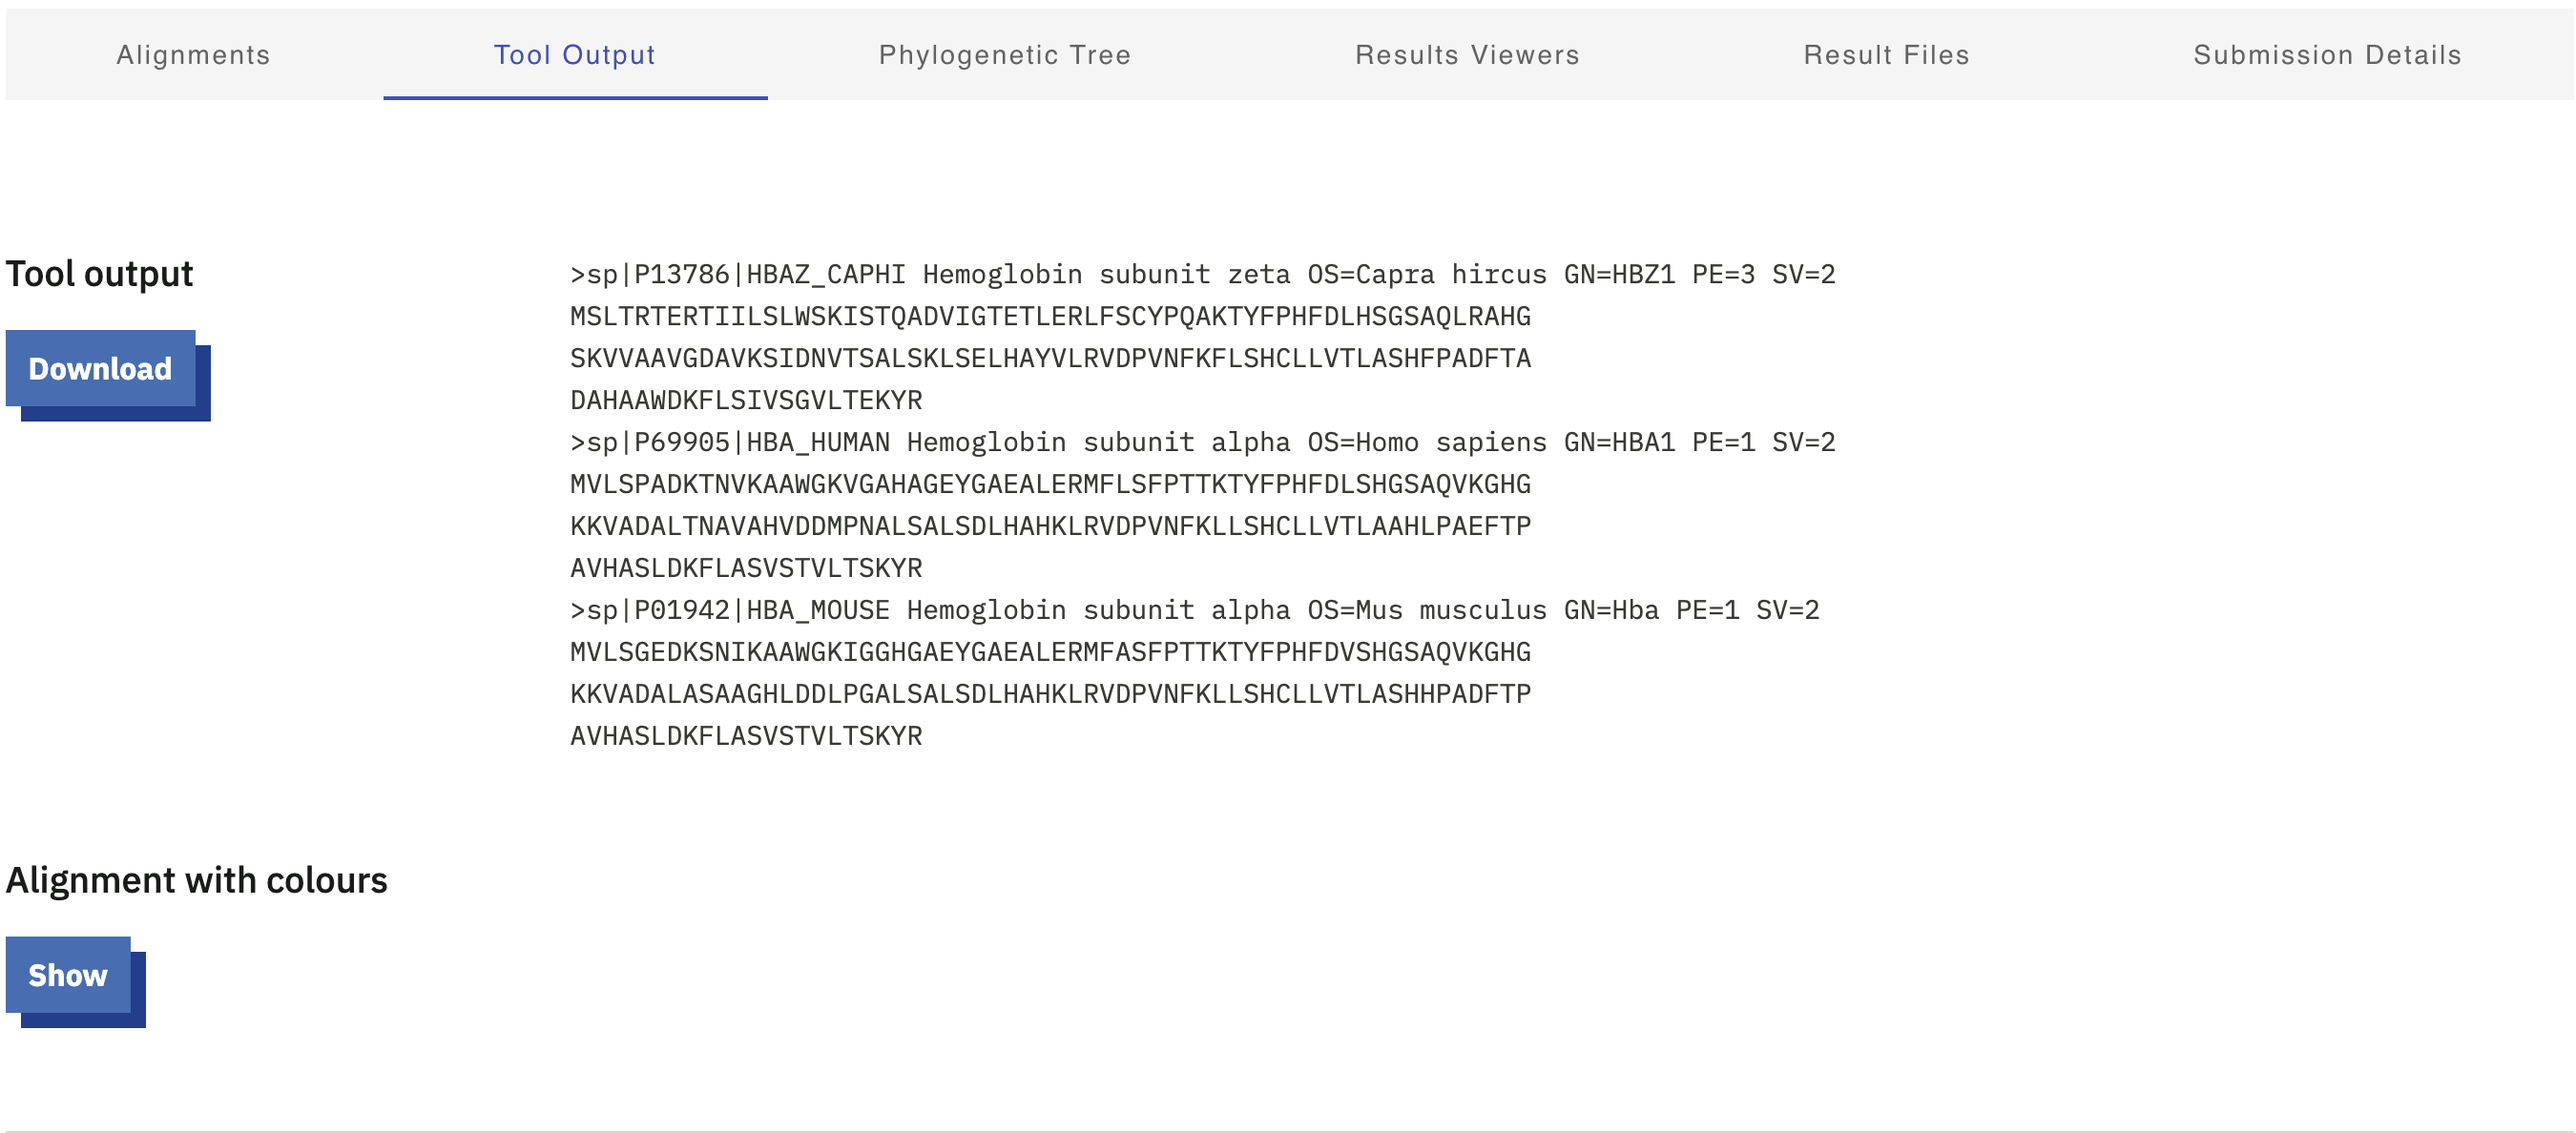
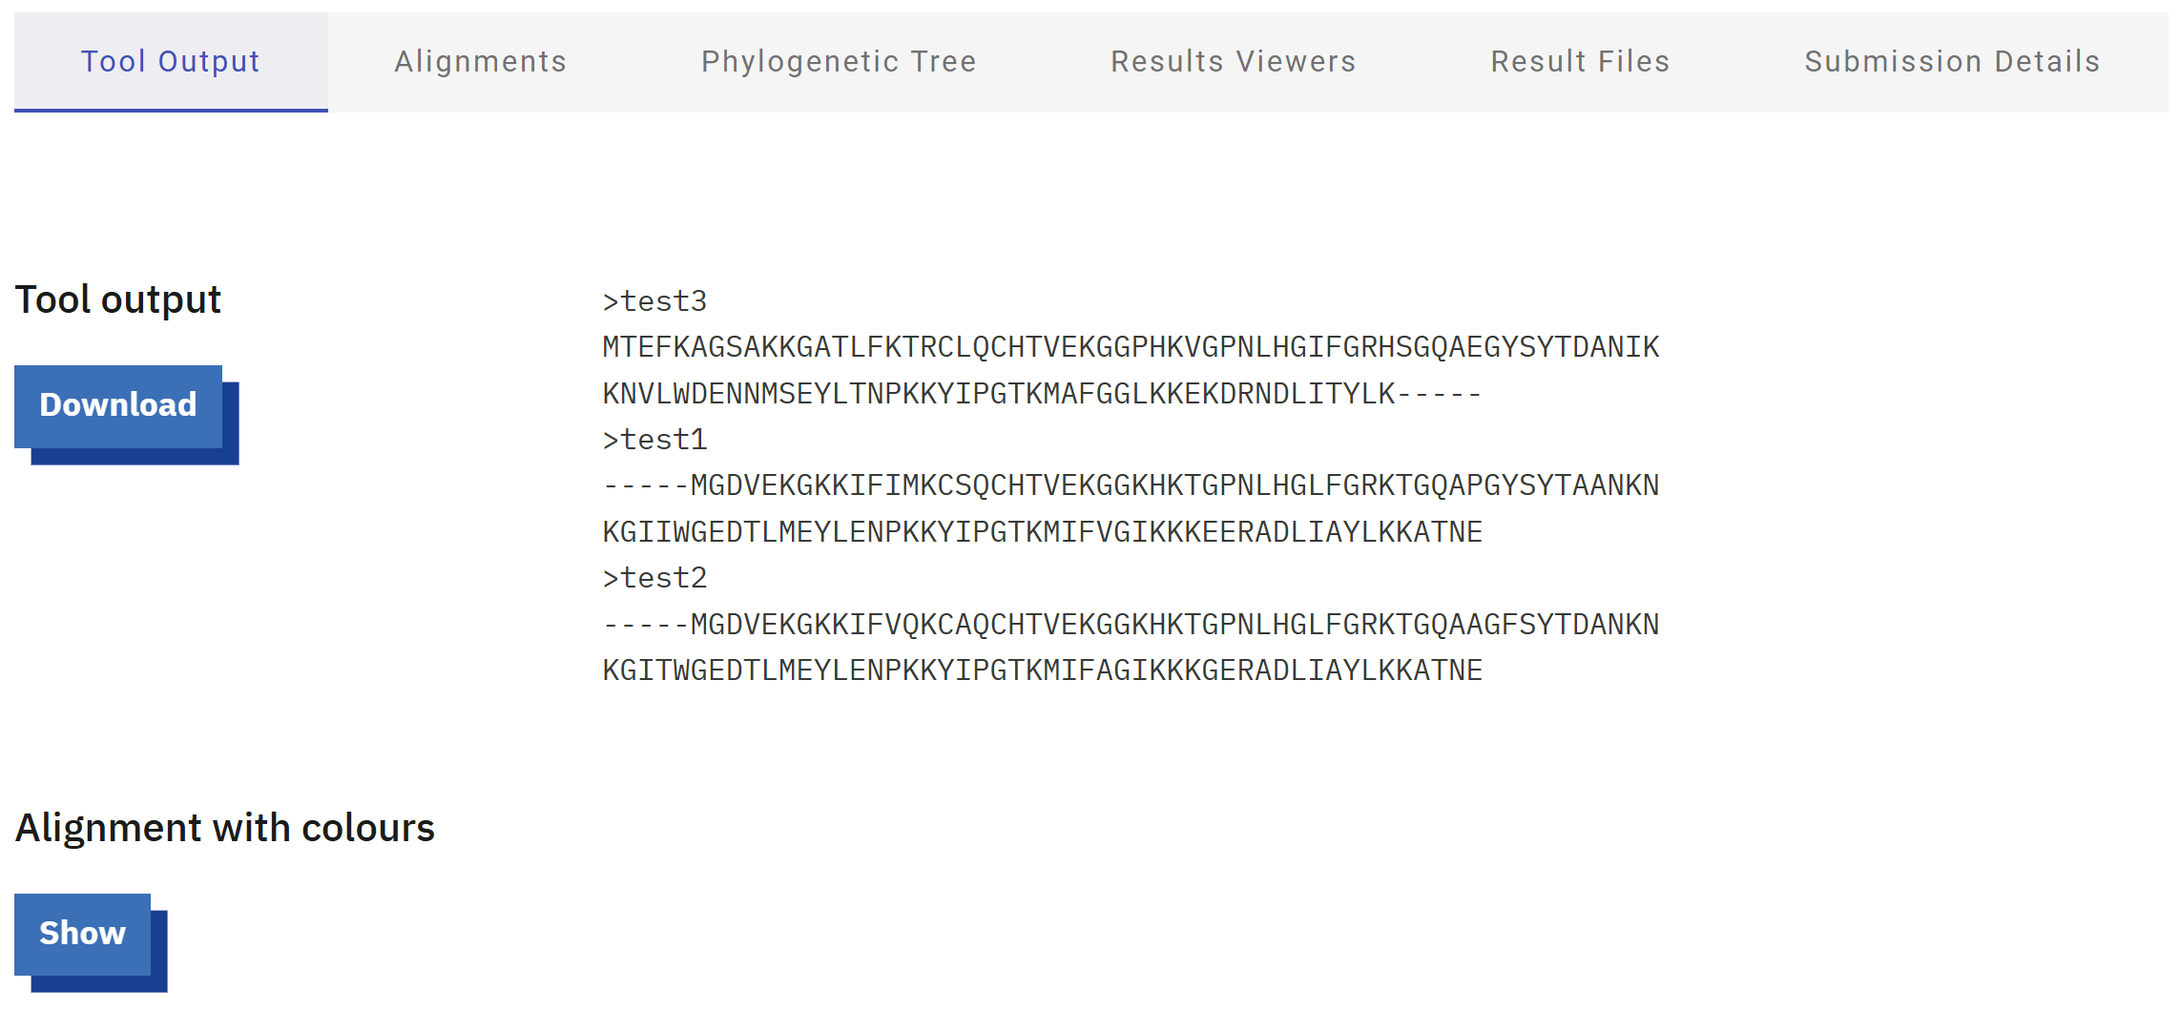
Added mytool Tutorial and supporting data

diff --git a/tools/muscle.md b/tools/muscle.md
@@ -1,10 +1,16 @@
 # MUSCLE
 written by: [Yunyi Cheng](https://github.com/yunyicheng)
 edited by: [Clare Gillis](https://github.com/claregillis)
+last reviewed and edited by: [Dingjiu Tang](https://github.com/Dangelo2002)
 
-MUSCLE is a computer program for creating multiple sequence alignments of proteins. It incorporates fast distance estimation using *k* mer counting, progressive alignment using a profile function we call the log‐expectation score, and refinement using tree‐dependent restricted partitioning. It could be used in phylogenetic tree estimation, structure prediction and critical residue identification, which are useful for virus identification and discovery.
+## Dingjiu's edits are shown in **bold** ##
 
-**Tutorial Objective**: We will use `MUSCLE` to produce multiple sequence alignment for hemoglobin subunit sequences from humans, house mice and goats.
+**Multiple Sequence Comparison Log-Expectation (MUSCLE)** is a computer program for creating **multiple sequence alignments (MSA)** of proteins **and polynucleotides**. **Introduced in 2004, MUSCLE brought a leap in speed and accuracy to MSA.** It incorporates fast distance estimation using *k* mer counting, progressive alignment using a profile function we call the log‐expectation score, and refinement using tree‐dependent restricted partitioning. 
+
+**These algorithms and iterative optimization have enabled MUSCLE to rapidly rise as one of the most trusted bioinformatics tools in the post-genomic era of data explosion.** It could be used in phylogenetic tree estimation, structure prediction and critical residue identification, which are useful for virus identification and discovery. **However, please note that MUSCLE itself cannot directly construct phylogenetic trees or predict protein structure and function from sequences, nor can it generate highly readable visualizations. It can only provide evidence of similarity in the MSA output. Other tools are required for downstream analysis. For online versions of MUSCLE, some downstream analysis tools have been integrated, allowing for direct visualization of results.**
+
+
+**Tutorial Objective**: **MUSCLE can be run locally via the command line or through a web server. Locally running MUSCLE offers more advanced parameter tuning and automated batch processing. On the other hand, running MUSCLE online is simpler and suitable for small datasets where advanced parameter tuning is not required. In this tutorial, we will use the MUSCLE server provided by the European Molecular Biology Laboratory-European Bioinformatics Institute (EMBL-EBI) to perform multiple sequence alignment of hemoglobin subunits from humans, house mice, and goats.**
 
 ## Input / Prerequisites
 
@@ -12,6 +18,7 @@ MUSCLE is a computer program for creating multiple sequence alignments of protei
 - [Link to example data formats](https://www.ebi.ac.uk/jdispatcher/docs/formats/)
 - Web browser
 - Three or more sequences of interest in GCG, FASTA, EMBL (Nucleotide only), GenBank, PIR, NBRF, PHYLIP, or UniProtKB/Seiss-Prot (Protein only) format directly, or upload a file.
+- **This website tool supports alignment of up to 500 sequences or files up to 1 MB in size.**
 
 ## Output
 
@@ -41,33 +48,76 @@ For the sake of demonstration, we will choose Pearson/fasta as the output format
 
 ### 4. Under the section `Submit`, name the job and hit `Submit`
 
-### 5. View the result
+### 5. After clicking `Submit`, it will display a message indicating that your job is being submitted or that your job is in the queue. The process will take some time. Once complete, the page will redirect automatically to the results page. This interface has the following modules:
 
 - Alignment results visualization with amino acids in different colours and buttons for zooming in and out
 ![alignment](img/muscle/example_alignment.png)
 
 
 - The output of the tool is shown in this section, users can `Download` the tool output or `Show` alignment with colours
-![tool output](https://p.ipic.vip/32qsut.png)
+![tool output](img/muscle/example_tool_output.png)
 
 
 - The phylogenetic tree shows the evolutionary relationship between input sequences with a sliding tile to zoom in and out
-![phylogenetic tree](https://p.ipic.vip/pa8ea7.png)
+![phylogenetic tree](img/muscle/example_phylogenetic_tree.png)
 
 
 - Links to related result viewers to further investigate the results
-![result Viewers](https://p.ipic.vip/51swp4.png)
+![result Viewers](img/muscle/example_result_viewers.png)
 
 
-- All result files and links to download them
-![result files](https://p.ipic.vip/joq6of.png)
+- All result files and links to download them. Due to space limitations, only a portion of the files are shown in the image.
+![result files](img/muscle/example_result_files.png)
 
 
-- Submission details about this job
-![submission details](https://p.ipic.vip/w2ruy3.png)
+- Submission details about this job. Due to space limitations, only a portion of the details are shown in the image.
+![submission details](img/muscle/example_submission_details.png)
+
+### For more information on the website's MUSCLE application, visualization tools and how to use them, please refer to this paper: [The EMBL-EBI Job Dispatcher sequence analysis tools framework in 2024](https://doi.org/10.1093/nar/gkae241)
+
+### Here you can find a primary research paper that uses MUSCLE and compares it with other mainstream MSA methods:
+[Multiple Alignment of Promoter Sequences from the Arabidopsis thaliana L. Genome](https://doi.org/10.3390/genes12020135)
 
 
-### Conclusion
+## Interpreting the Results
+
+As mentioned in the "Output" section above, MUSCLE's output files are typically plain text. There are several ways to interpret output files, but there is also some information that the output cannot reveal.
+
+### Regarding confidence analysis: 
+
+MUSCLE's output files do not provide information about residue confidence. Output files such as clusterW only provide a consensus line, which indicates the degree of conservation of residues. To obtain information about the confidence level of multiple sequence alignment results, other downstream analysis tools, such as Gblocks or Guidance, are required.
+
+### Regarding false positives:
+
+Similarly, MUSCLE cannot provide information on true positives, false positives, or the significance threshold. To verify the false-positive rate of the MUSCLE algorithm itself, we need to provide a verified correct alignment result and compare MUSCLE's output with it. A false positive is defined here as a residue pair that MUSCLE incorrectly matches, but which does not match in the reference alignment. MUSCLE's built-in algorithm determines the threshold for judging a match, but it will not evaluate the reliability of the alignment result. In addition, we generally do not input a verified correct reference alignment to measure the algorithm's accuracy. Therefore, MUSCLE is not suitable for judging true positives and false positives.
+
+### Regarding how to use the MUSCLE output to create "charts" for your final project:
+
+- Several types of charts help demonstrate the evolution, classification, and functional characteristics of viruses. The most important chart that MUSCLE output can create is the phylogenetic tree. It can be generated using downstream analysis tools such as MEGA, RAxML, and IQ-TREE. The good news is that the online MUSCLE tool used in the previous tutorial has integrated interactive phylogenetic tree and dendrogram visualization capabilities driven by phylotree.js. Therefore, it is also possible to generate phylogenetic trees directly on the online website.
+
+- To further visualize MUSCLE's output files, MVIEW and JalView can generate easily interpretable alignment images for use in reports and papers.
+
+- Gblocks can remove highly variable or low-confidence regions from alignment results, retaining only conserved, highly reliable "information blocks." The Conservation Profile Plot statistically analyzes the conservation of residues in each column of the MUSCLE alignment results. It can be used to predict and visualize highly conserved functional regions (such as active sites) and highly variable regions (such as immune escape sites) in viral proteins. WebLogo, Plotcon, and JalView can generate this chart.
+
+- WebLogo can also generate Sequence Logos. It creates symbolic maps for specific conserved regions in the MUSCLE alignment results, with letter size proportional to the frequency of the residue at that position. This can predict which residues are essential in viral families and their tendency to mutate.
+
+### To ensure the reproducibility of the analysis results, the following information and parameters should be included in the "Legend":
+
+- Sequence Source and Number: The total number of sequences involved in the alignment (e.g., 25 sequences).
+
+- Sequence Type: Nucleic acid (DNA/RNA) or protein.
+
+- Key Sequence Identifiers: If possible, provide the NCBI Accession Numbers or UniProt IDs for newly discovered or key comparison sequences.
+
+- Alignment Algorithm Parameters: If using a local MUSCLE, specify the software and version number, key scoring parameters, iterations, and optimization. If using the same online MUSCLE tool as in the tutorial, provide the necessary settings for using that tool.
+
+- Used Tools: When generating charts using the tools described above, such as phylogenetic trees or conservation diagrams, the name and version of the tool used must be specified. The key procedures and parameters for using these methods should also be included.
+
+### A phylogenetic tree example with full documentation and explanation:
+
+
+
+## Conclusion
 
 That's it! You've used the `MUSCLE` to produce multiple sequence alignment for hemoglobin subunit sequences from humans, house mice and goats!
 
@@ -89,3 +139,4 @@ evolutionary relationships when it comes to viral proteins.
 - [Documentation](https://drive5.com/muscle5/manual/)
 - [Home page](https://drive5.com/muscle5/)
 - For other multiple sequence alignment tools see: [EMBL Multiple Sequence Alignment](https://www.ebi.ac.uk/jdispatcher/msa)
+- For a review article on constructing phylogenetic tree: [Systematic Review of Phylogenetic Analysis Techniques for RNA Viruses Using Bioinformatics](https://doi.org/10.3390/ijms26052180)
